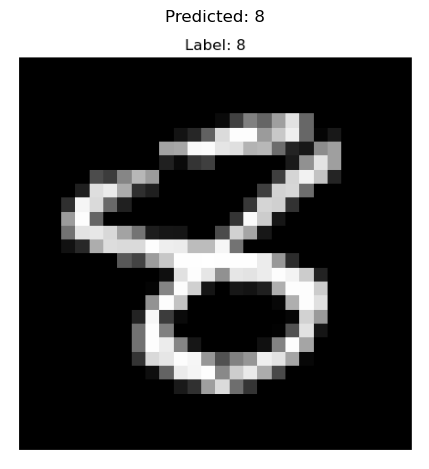
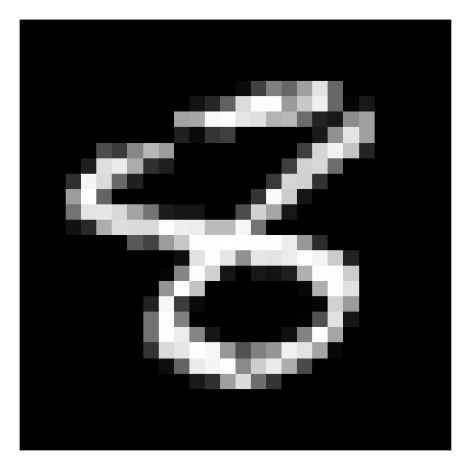
Final submission: cleaned, documented, tested

diff --git a/src/digit_classification/utils/plot_utils.py b/src/digit_classification/utils/plot_utils.py
@@ -96,7 +96,6 @@ def plot_image(image, out_file, title=""):
         image = image.squeeze()
 
     plt.imshow(image, cmap='gray')
-    plt.title(title)
     plt.axis('off')
     plt.tight_layout()
     plt.savefig(out_file, bbox_inches='tight')
